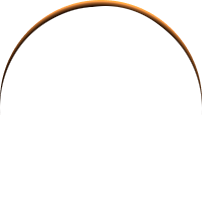
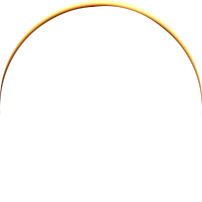
update multiplier circle

Changed region(s): [[0.0, 0.0, 1.0, 0.505]]

diff --git a/src/components/Scene/useMultiplierAnimation.js b/src/components/Scene/useMultiplierAnimation.js
@@ -226,14 +226,15 @@ export default function useMultiplierAnimation() {
     const oneCircle = (cx, cy, r) => {
       const circlerTexture = new PIXI.Texture.from("assets/image/circle.png");
       const circle = new PIXI.Sprite(circlerTexture);
+      circle.blendMode = PIXI.BLEND_MODES.ADD;
       circle.anchor.set(0.5);
       circle.width = r * 2;
       circle.height = r * 2;
       circle.x = cx;
       circle.y = cy;
       circle.tint = 0xfff6c9;
-      circle.angle = getRB(0, 180);
-      circle.rotation = ang2Rad(getRB(0, 180));
+      // circle.angle = getRB(0, 180);
+      circle.rotation = ang2Rad(getRB(0, 360));
       circle.alpha = 0.5;
       gsap.to(circle, {
         width: r * 4,
@@ -255,39 +256,10 @@ export default function useMultiplierAnimation() {
       oneCircle(getRB(-3, 3), getRB(-3, 3), radius / 2 + i - 2);
     }
 
-    // const oneArc = (cx, cy, r, v) => {
-    //   const arc = new PIXI.Graphics();
-    //   arc.lineStyle(0.5, 0xffff00, 1);
-    //   arc.arc(cx, cy, r, 0, getRB(5, 8), false);
-    //   arc.width = r;
-    //   arc.height = r;
-    //   // arc.pivot.set(0.5);
-    //   // arc.tint = 0xfff6c9;
-    //   arc.angle = getRB(0, 360);
-
-    //   gsap.to(arc, {
-    //     width: r * 2,
-    //     height: r * 2,
-    //     duration: 1,
-    //     onComplete: () => {
-    //       gsap.to(arc, {
-    //         angle: arc.angle + 360,
-    //         duration: v,
-    //         ease: "none",
-    //         // tint: 0xffb119,
-    //         repeat: -1,
-    //       });
-    //     },
-    //   });
-    //   container.addChild(arc);
-    // };
-    // for (let i = 0; i < 5; i++) {
-    //   oneArc(getRB(-4, 4), getRB(-4, 4), radius + i - 2, getRB(1, 3));
-    // }
     const text = new PIXI.Text(multiNum + `x`, {
       fontFamily: "CircularStdBold",
       dropShadow: true,
-      fontWeight: 900,
+      // fontWeight: 900,
       dropShadowAngle: 1.7,
       dropShadowColor: "#63a215",
       dropShadowDistance: 2,
@@ -316,7 +288,7 @@ export default function useMultiplierAnimation() {
       dropShadowDistance: 2,
       fill: isRed(selNum) ? "red" : "white",
       fontSize: 30,
-      fontWeight: 400,
+      // fontWeight: 400,
     });
     selText.y = radius / 8;
     selText.anchor.set(0.5);
@@ -394,7 +366,7 @@ export default function useMultiplierAnimation() {
     const circle = new PIXI.Container();
     circle.x = halfX - 175;
     circle.y = Y - 150;
-    circle.blendMode = PIXI.BLEND_MODES.ADD;
+    // circle.blendMode = PIXI.BLEND_MODES.ADD;
     const radius = 40;
 
     app.stage.addChild(circle);
